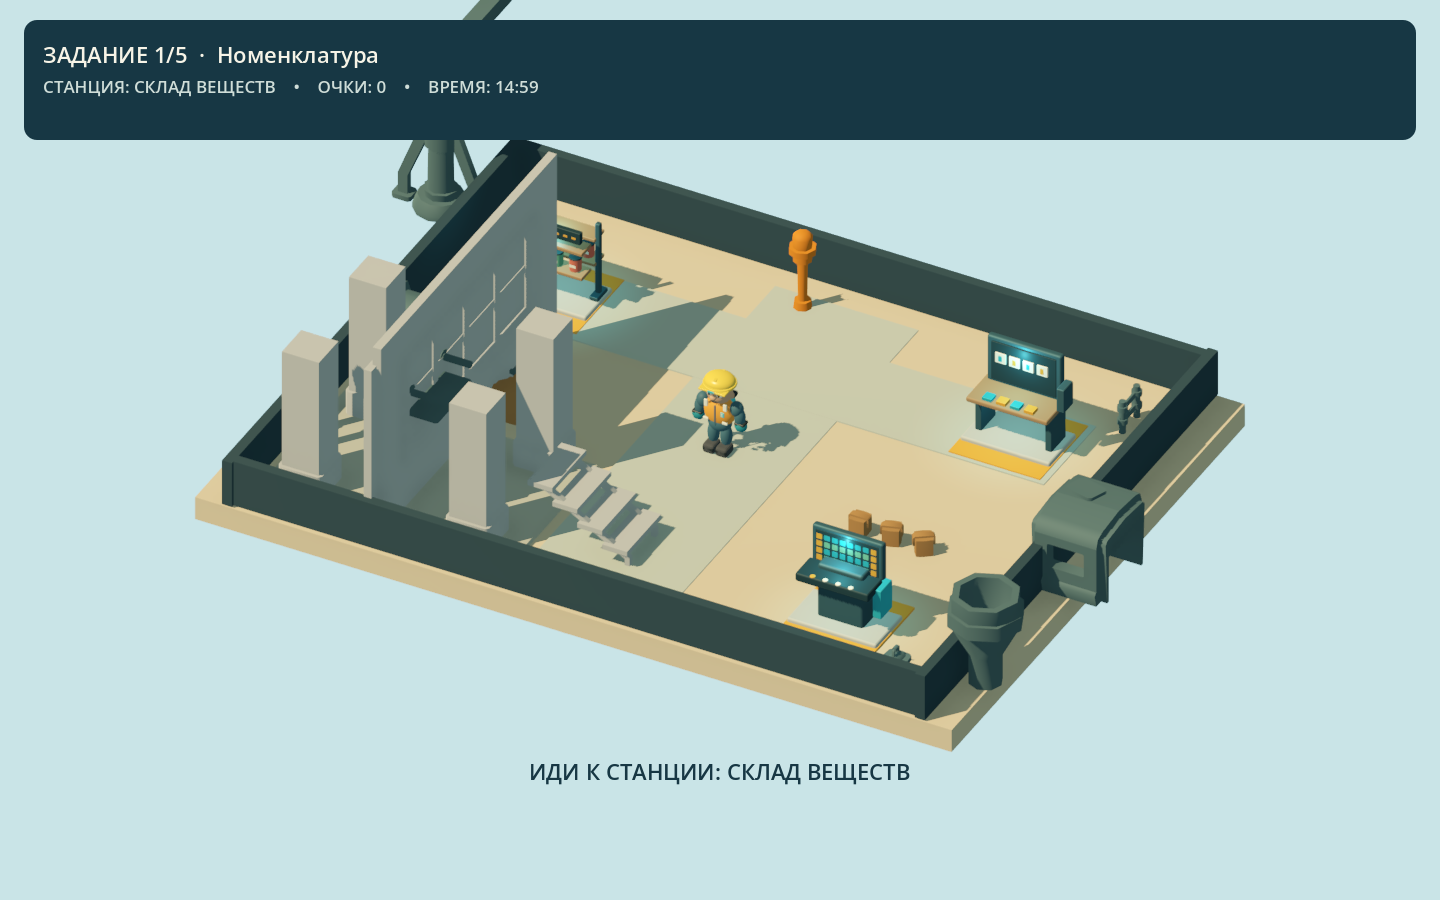
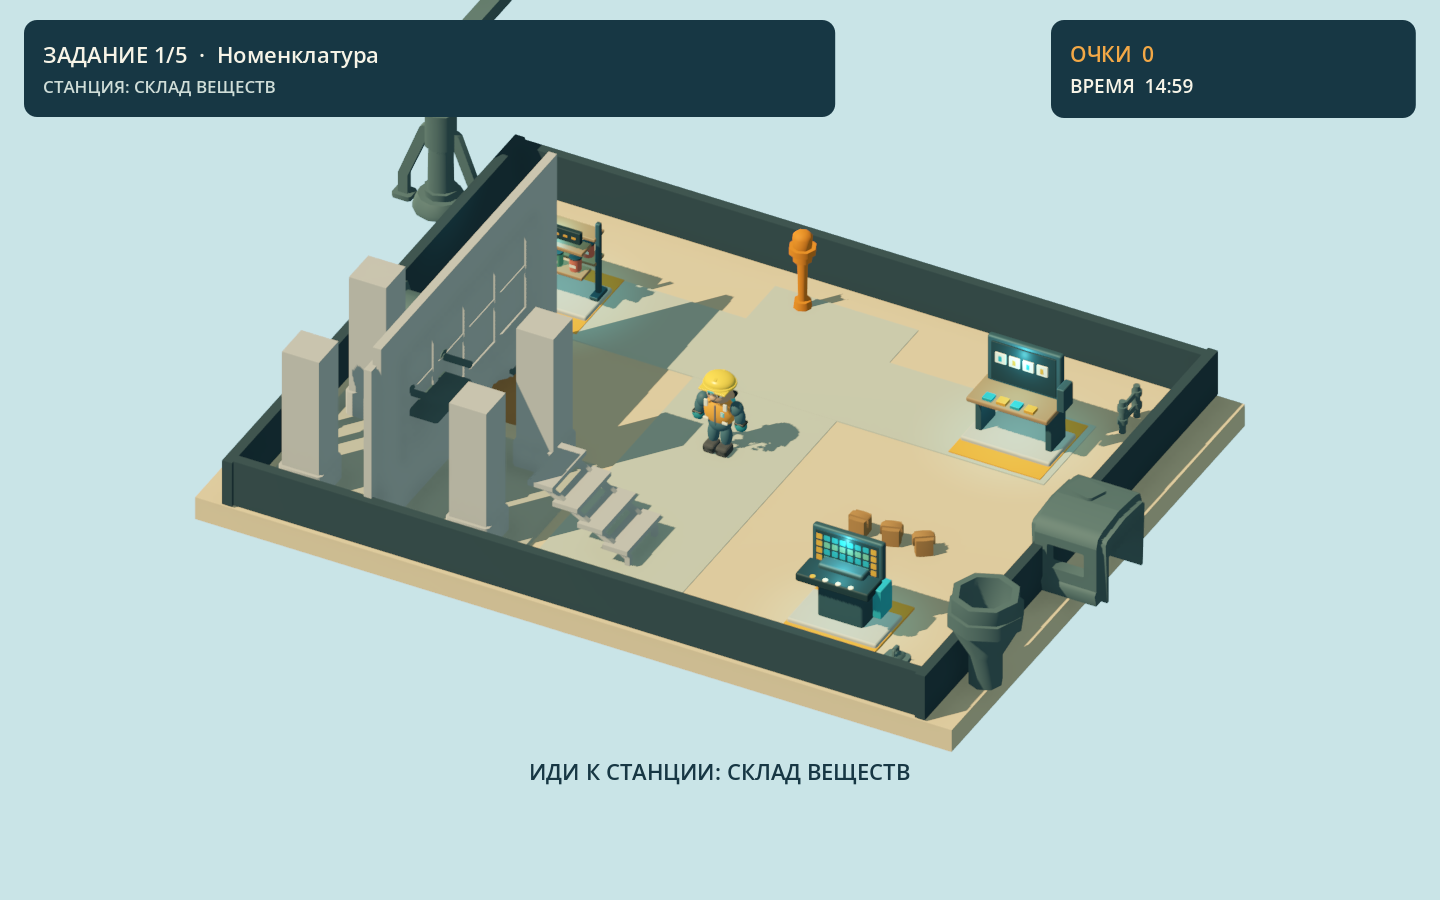
ui: separate mission and round status in HUD

Changed region(s): [[0.0, 0.0, 1.0, 0.1556]]

diff --git a/PROGRESS.md b/PROGRESS.md
@@ -15,6 +15,7 @@ Phases 3, 7 and 8 — environment, UI, visual and audio quality pass for the fir
 - Added an audio bus, a licensed legacy music track and generated interaction/correct/incorrect cues.
 - Added a small color-coded answer particle burst; rendered the effect above the player and verified that its emitter frees itself after playback.
 - Added a native audio settings panel with live music/effects bus control, persistent versioned values, keyboard focus and Escape navigation; captured it at 1440×900.
+- Split the gameplay HUD into a mission panel and a compact score/timer panel; reviewed the updated site capture at 1440×900.
 - Added a complete five-task round smoke test that checks station interactions, results and saved progress using an isolated test save.
 - Configured a universal macOS release preset and built `builds/macos/ChemSite.app`. Launched its arm64 release binary outside the editor and captured its menu.
 - Captured and visually reviewed the menu, site, station panel, formula builder and exported release menu under `artifacts/`.
